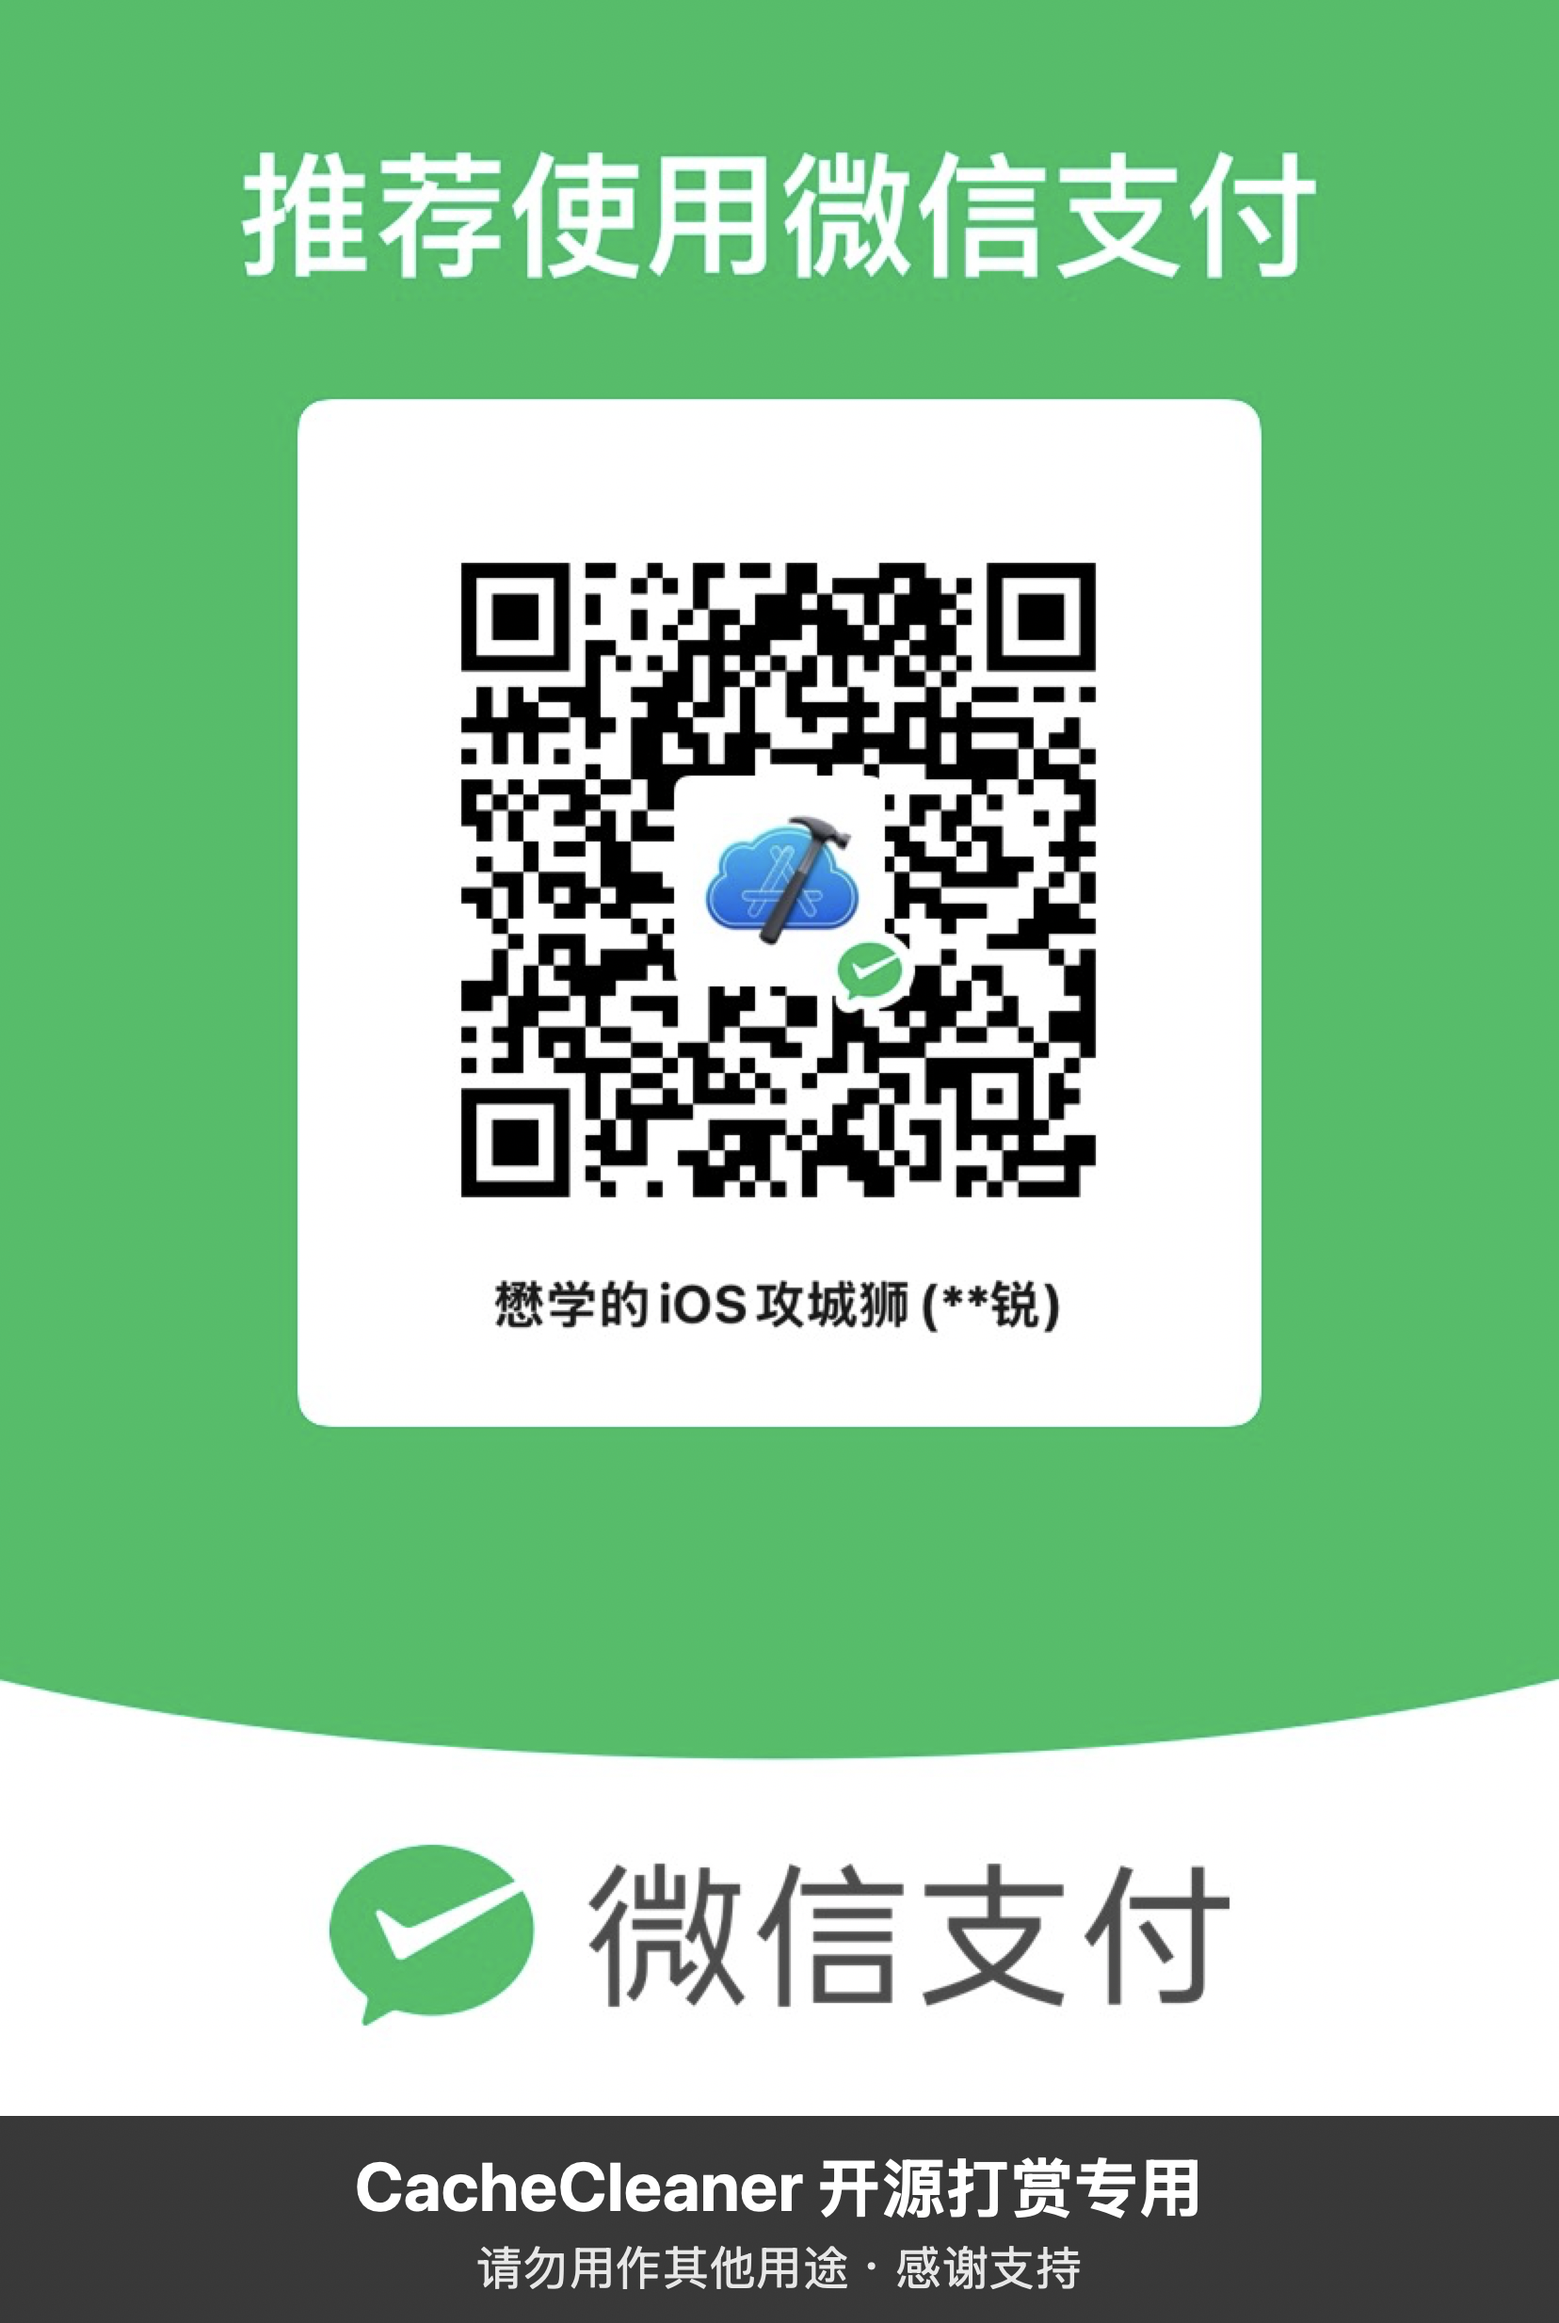
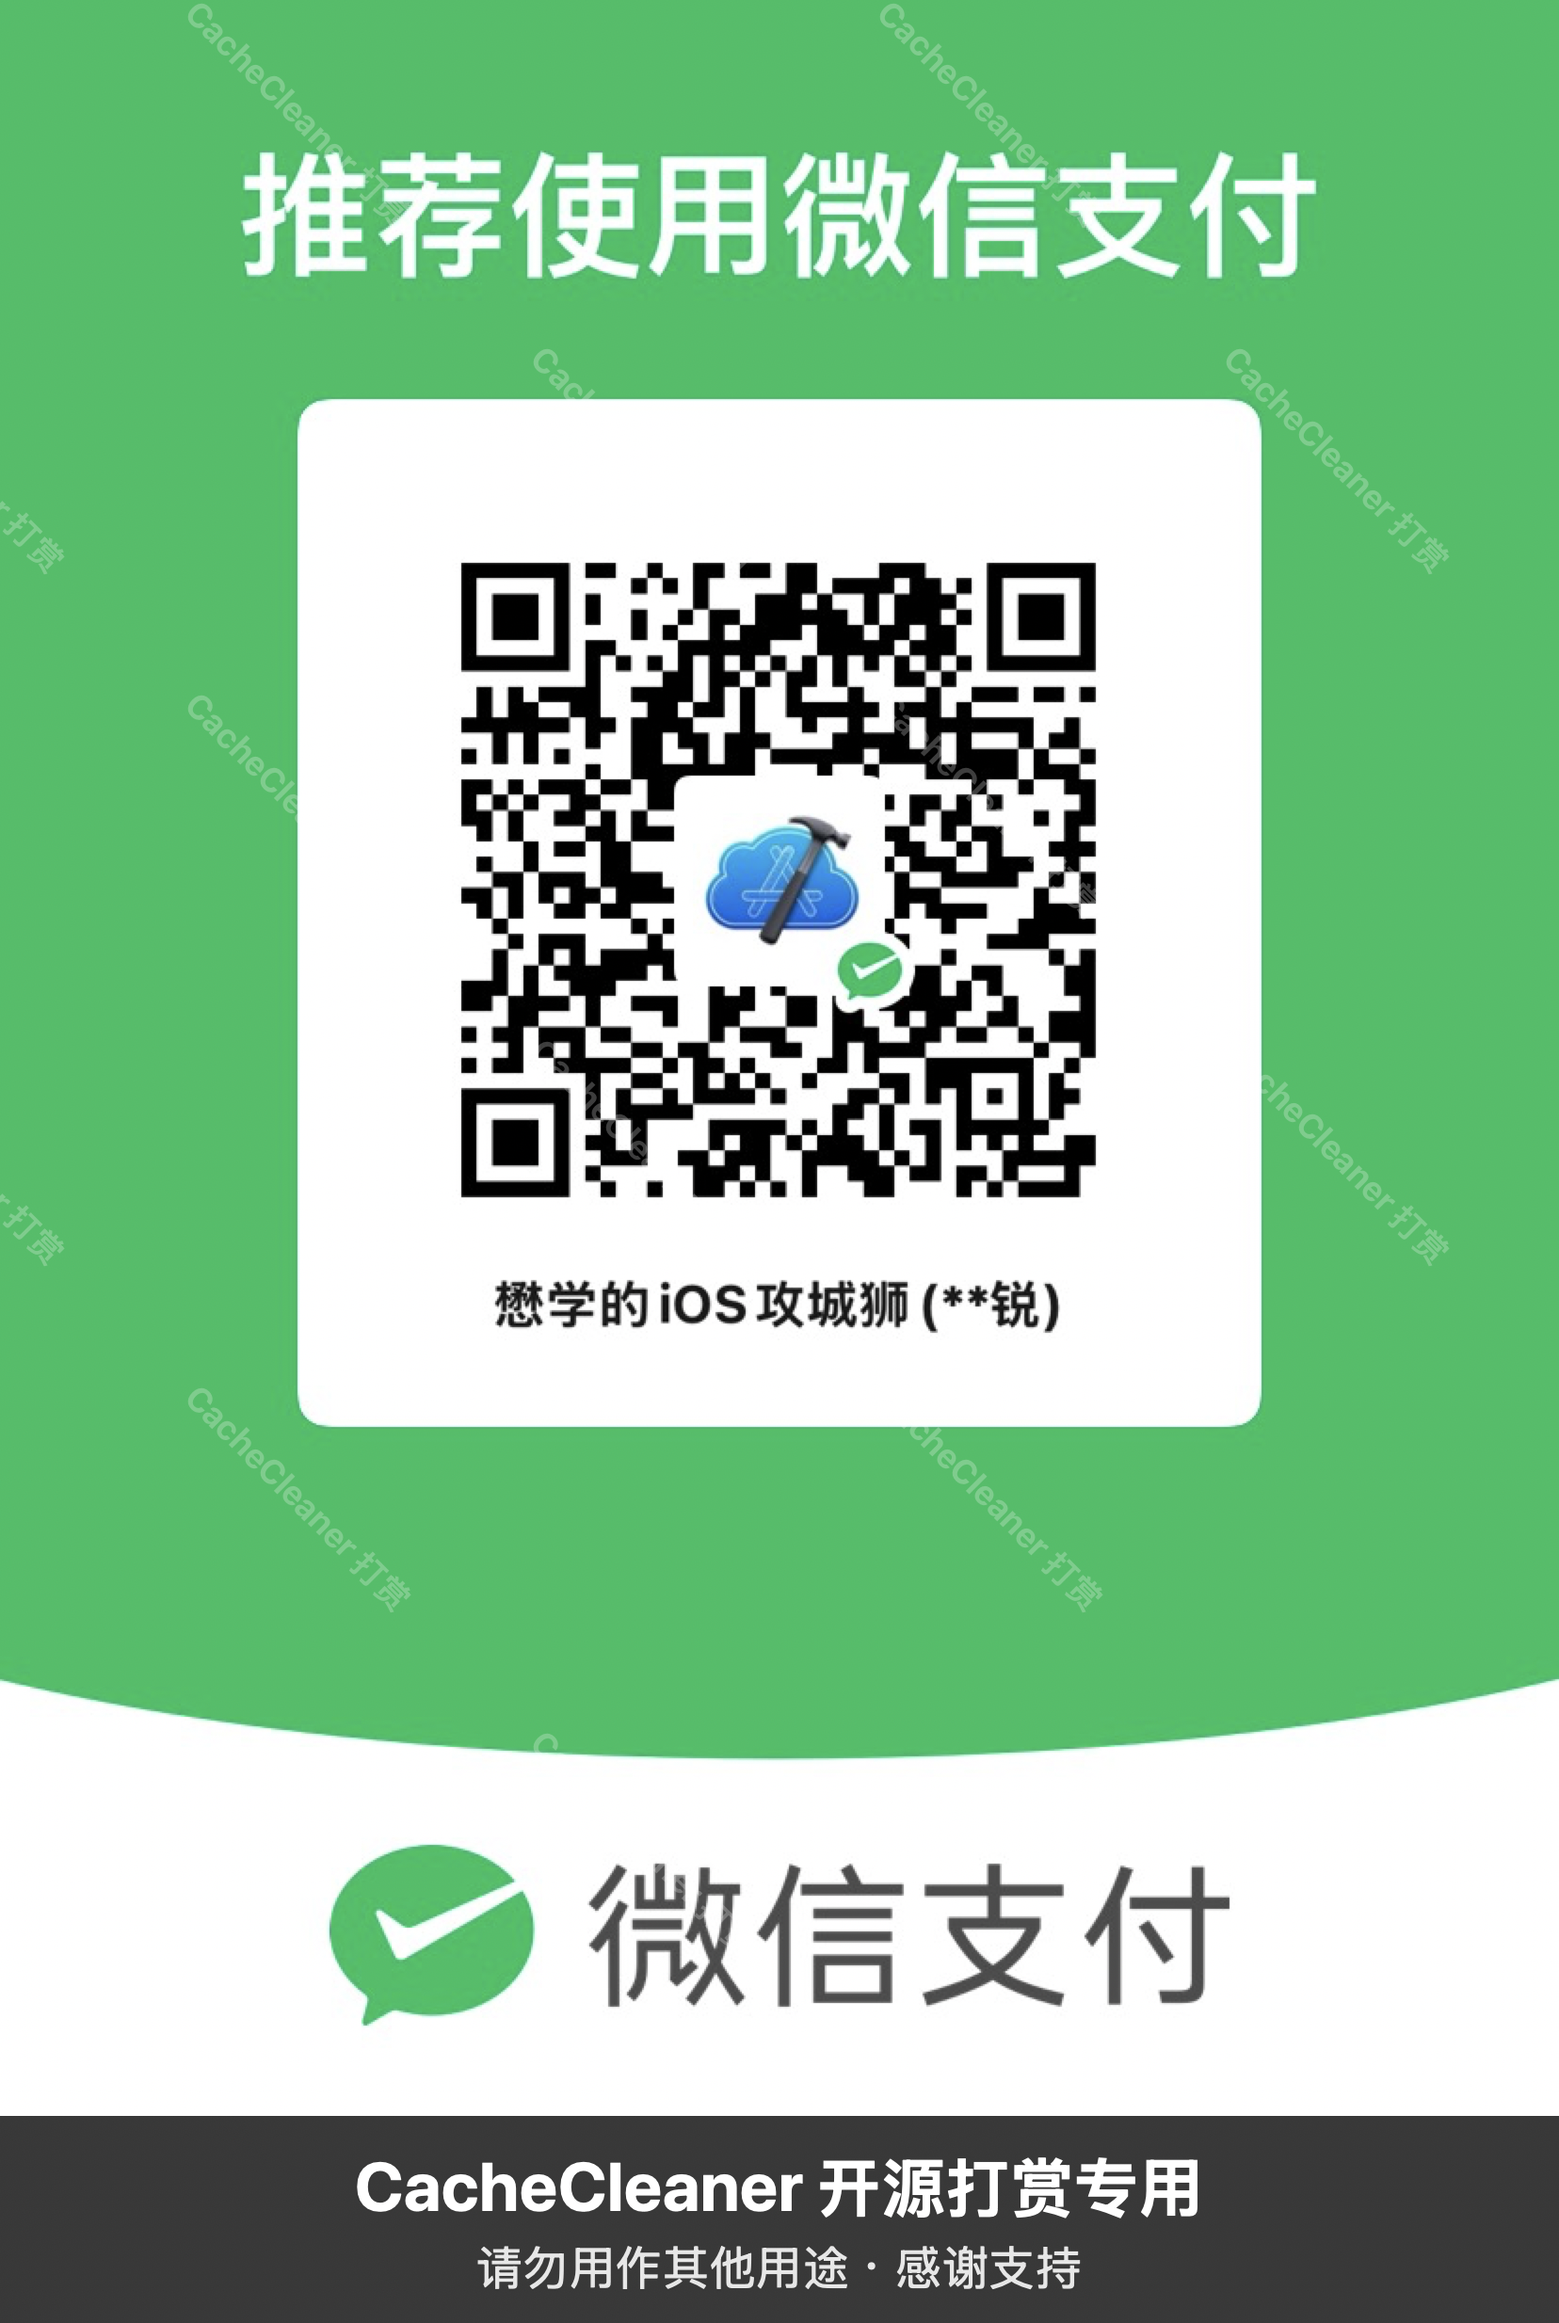
fix: 收款码水印改为全图斜纹（防裁剪）+ 调低密度（保证扫码）
- 之前底部条幅水印：截掉底部就失效
- 新方案：CGContext 旋转 -45° + 网格循环画「CacheCleaner 打赏」白字 18pt alpha 0.24
- 网格间距 260px，覆盖率 ~3%（< QR L 级纠错 7% 下限，扫码无忧）
- 保留底部条幅作为双保险
- 任意截图/裁切都带水印标识

diff --git a/build-watermark.swift b/build-watermark.swift
@@ -1,8 +1,9 @@
 import AppKit
 
-// 给微信收款码加水印（防被滥用为诈骗二维码）。
-// 方案：在原图底部追加 110px 高黑色半透明条幅，白字粗体标注用途。
-// 不修改二维码识别区（保留三个定位方块和中央 logo）。
+// 给微信收款码加「防裁剪」水印：
+// 1. 全图 45° 斜纹半透明文字「CacheCleaner 打赏」（无论截哪一块都有水印）
+// 2. 底部追加条幅（双保险）
+// 3. 二维码三个定位角与中心 logo 区保持清洁，不影响扫码识别
 
 let args = CommandLine.arguments
 guard args.count >= 3 else {
@@ -20,24 +21,54 @@ guard let raw = NSImage(contentsOfFile: inputPath) else {
 let w = raw.size.width
 let h = raw.size.height
 let bannerH: CGFloat = 110
-let fontSize: CGFloat = 42
 
-// 画布：原图高度 + 底部条幅
 let canvas = NSImage(size: NSSize(width: w, height: h + bannerH))
 canvas.lockFocus()
 
-// 原图绘制在上方
+guard let ctx = NSGraphicsContext.current?.cgContext else {
+    print("无法获取绘制上下文")
+    exit(1)
+}
+
+// 1. 原图绘制在上方
 raw.draw(in: NSRect(x: 0, y: bannerH, width: w, height: h),
          from: NSRect(origin: .zero, size: raw.size),
          operation: .sourceOver,
          fraction: 1)
 
-// 底部条幅：黑色 78% 半透明
+// 2. 全图斜纹水印（45° 旋转网格，覆盖原图区域）
+let wmText = "CacheCleaner 打赏"
+let wmAttrs: [NSAttributedString.Key: Any] = [
+    .font: NSFont.boldSystemFont(ofSize: 18),
+    .foregroundColor: NSColor.white.withAlphaComponent(0.24)
+]
+let wm = wmText as NSString
+
+let extent = sqrt(w * w + h * h)
+let grid: CGFloat = 260
+let rotation = -45.0 * CGFloat.pi / 180.0
+
+ctx.saveGState()
+// 旋转中心放在原图中心（避免旋转后水印漂移出边界）
+ctx.translateBy(x: w / 2, y: bannerH + h / 2)
+ctx.rotate(by: rotation)
+// 以旋转后坐标画网格（覆盖足够大的范围）
+var x = -extent
+while x < extent {
+    var y = -extent
+    while y < extent {
+        wm.draw(at: NSPoint(x: x, y: y), withAttributes: wmAttrs)
+        y += grid
+    }
+    x += grid
+}
+ctx.restoreGState()
+
+// 3. 底部条幅：黑色 78% 半透明 + 两行白字
 let banner = NSRect(x: 0, y: 0, width: w, height: bannerH)
 NSColor(calibratedRed: 0, green: 0, blue: 0, alpha: 0.78).setFill()
 banner.fill()
 
-// 条幅文字：两行，白字
 let line1 = NSAttributedString(string: "CacheCleaner 开源打赏专用",
                                attributes: [
                                 .font: NSFont.boldSystemFont(ofSize: 36),
@@ -48,12 +79,10 @@ let line2 = NSAttributedString(string: "请勿用作其他用途 · 感谢支持
                                 .font: NSFont.systemFont(ofSize: 26),
                                 .foregroundColor: NSColor.white.withAlphaComponent(0.88)
                                ])
-
 let s1 = line1.size()
 let s2 = line2.size()
 let totalTextH = s1.height + 6 + s2.height
 let startY = (bannerH - totalTextH) / 2
-
 line1.draw(at: NSPoint(x: (w - s1.width) / 2, y: startY + s2.height + 6))
 line2.draw(at: NSPoint(x: (w - s2.width) / 2, y: startY))
 
@@ -66,4 +95,4 @@ guard let tiff = canvas.tiffRepresentation,
     exit(1)
 }
 try data.write(to: URL(fileURLWithPath: outPath))
-print("已生成 \(outPath)（原图 \(Int(w))x\(Int(h)) + 底部 \(Int(bannerH))px 水印条幅）")
+print("已生成 \(outPath)（斜纹水印 + 底部条幅）")
